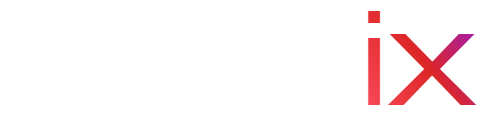
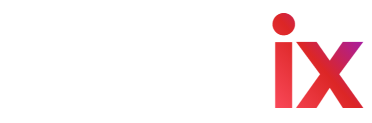
17-9-26-34
ฟอนต์โลโก้เป็น Righteous ให้ดูไหลลื่น + คำอ่านไทยเป็น "โฟลอิกซ์"

ฟอนต์
- เปลี่ยนจาก Michroma เป็น Righteous — ทรงมนหนา ปลายเส้นโค้งต่อเนื่อง
  Michroma เป็นทรงเหลี่ยมกว้างแนวไซไฟ ซึ่งค้านกับความหมาย "ไหลลื่น" ของชื่อแบรนด์โดยตรง
- ⚠ Righteous มีน้ำหนักเดียวคือ 400 ถ้าสั่ง 700 เบราว์เซอร์จะปลอมตัวหนาให้แล้วขอบเละ
- ⚠ ไม่กว้างผิดปกติเหมือน Michroma จึงคลาย letter-spacing จาก -fontSize/22 เป็น -fontSize/55
  ถ้าใช้ค่าเดิมตัวอักษรจะเบียดกันจนติด
- สัดส่วนโลโก้เปลี่ยนจาก 5.7:1 เป็น 3.0:1 จึงเพิ่มความสูงให้ตามส่วน
  (แถบบน 40px · มือถือ 34px) ไม่งั้นโลโก้จะดูเล็กลงทั้งที่พื้นที่ยังเหลือ

คำอ่านไทย
- "โฟลวิกซ์" -> "โฟลอิกซ์" ครบทุกที่: meta description, แถบแจ้งเปลี่ยนชื่อ
  และ aria-label ของไฟล์ .svg ทั้งสามไฟล์

⚠ ไอคอนแอปไม่ได้เปลี่ยนรูป (เปลี่ยนแค่ aria-label) ไฟล์ PNG ยังเหมือนเดิมทุกไบต์
   จึงไม่ต้องเลื่อนเลขเวอร์ชันไอคอน

ตรวจแล้ว: eslint ผ่าน · vitest 112 เคสผ่าน · Playwright บน Pixel 5 ทั้ง 4 สิทธิ์
ไม่มีสกรอลแนวนอน โลโก้กว้าง 103px
(เทสต์รอบแรกล้มเพราะโทเคนทดสอบหมดอายุ ไม่เกี่ยวกับโค้ด — มินต์ใหม่แล้วผ่านครบ)

Changed region(s): [[0.7097, 0.0769, 1.0, 0.8974]]

diff --git a/src/layouts/Header.css b/src/layouts/Header.css
@@ -29,7 +29,7 @@
 .logo {
   /* ⚠ 36px ไม่ใช่ 48px เหมือนตอนที่โลโก้ยังเป็นกรอบสี่เหลี่ยม — ตอนนี้โลโก้เป็นตัวอักษรล้วน
      ความสูงทั้งก้อนเกือบเท่าความสูงตัวอักษร ถ้าตั้ง 48 ตัวหนังสือจะใหญ่จนล้นความรู้สึกของแถบสูง 70px */
-  height: 36px !important;
+  height: 40px !important;
   width: auto !important;
   max-width: 200px; 
   object-fit: contain !important; 
@@ -189,9 +189,9 @@
   .logo {
     /* ✅ เดิม comment เขียนว่า "ลดขนาด" แต่ค่าจริงคือ 60px ซึ่งใหญ่กว่าจอใหญ่ (48px) เสียอีก
        เหลือพื้นที่ว่างแนวตั้งแค่ ~2px ในแถบสูง 64px แทบไม่มีลมหายใจเลย ปรับให้เล็กลงจริงตามที่ตั้งใจ
-       ⚠ โลโก้ตัวอักษรสัดส่วนราว 4.2:1 — ที่ 30px จะกว้างราว 125px ซึ่งเหลือที่ให้ทางลัด/กระดิ่ง/
-       รูปโปรไฟล์/ปุ่มเมนู บนจอ 393px ครบพอดี */
-    height: 30px !important;
+       ⚠ โลโก้ตัวอักษรสัดส่วนราว 3.1:1 — ที่ 34px จะกว้างราว 106px ซึ่งเหลือที่ให้ทางลัด/กระดิ่ง/
+       รูปโปรไฟล์/ปุ่มเมนู บนจอ 393px ครบพอดี (max-width กันไว้เผื่อองค์กรอัปโลโก้ทรงกว้างมาทับ) */
+    height: 34px !important;
     max-width: 150px;
   }
 

diff --git a/index.html b/index.html
@@ -12,7 +12,7 @@
     <meta name="theme-color" content="#dc2626" />
     <meta
       name="description"
-      content="Flowix (โฟลวิกซ์) — ระบบที่ทำให้งานและข้อมูลไหลลื่นเชื่อมโยงกัน: จัดตารางช่าง · ติดตามการดำเนินงาน · เอกสาร · วางบิล · เบิกค่าใช้จ่าย"
+      content="Flowix (โฟลอิกซ์) — ระบบที่ทำให้งานและข้อมูลไหลลื่นเชื่อมโยงกัน: จัดตารางช่าง · ติดตามการดำเนินงาน · เอกสาร · วางบิล · เบิกค่าใช้จ่าย"
     />
     <link rel="apple-touch-icon" href="/app-icon-apple-180.png?v=12" />
 

diff --git a/src/shared/components/AppRebrandNotice.js b/src/shared/components/AppRebrandNotice.js
@@ -63,7 +63,7 @@ export default function AppRebrandNotice() {
         }
       >
         <Typography sx={{ fontWeight: 800, fontSize: "0.9rem" }}>
-          แอปเปลี่ยนชื่อเป็น “Flowix (โฟลวิกซ์)” พร้อมไอคอนใหม่แล้ว
+          แอปเปลี่ยนชื่อเป็น “Flowix (โฟลอิกซ์)” พร้อมไอคอนใหม่แล้ว
         </Typography>
         <Typography variant="caption" sx={{ display: "block", color: "text.secondary" }}>
           ถ้าไอคอนบนหน้าจอโฮมยังเป็นอันเดิม ไม่ได้แปลว่าแอปไม่อัปเดต — ข้างในเป็นเวอร์ชันล่าสุดเสมอ
